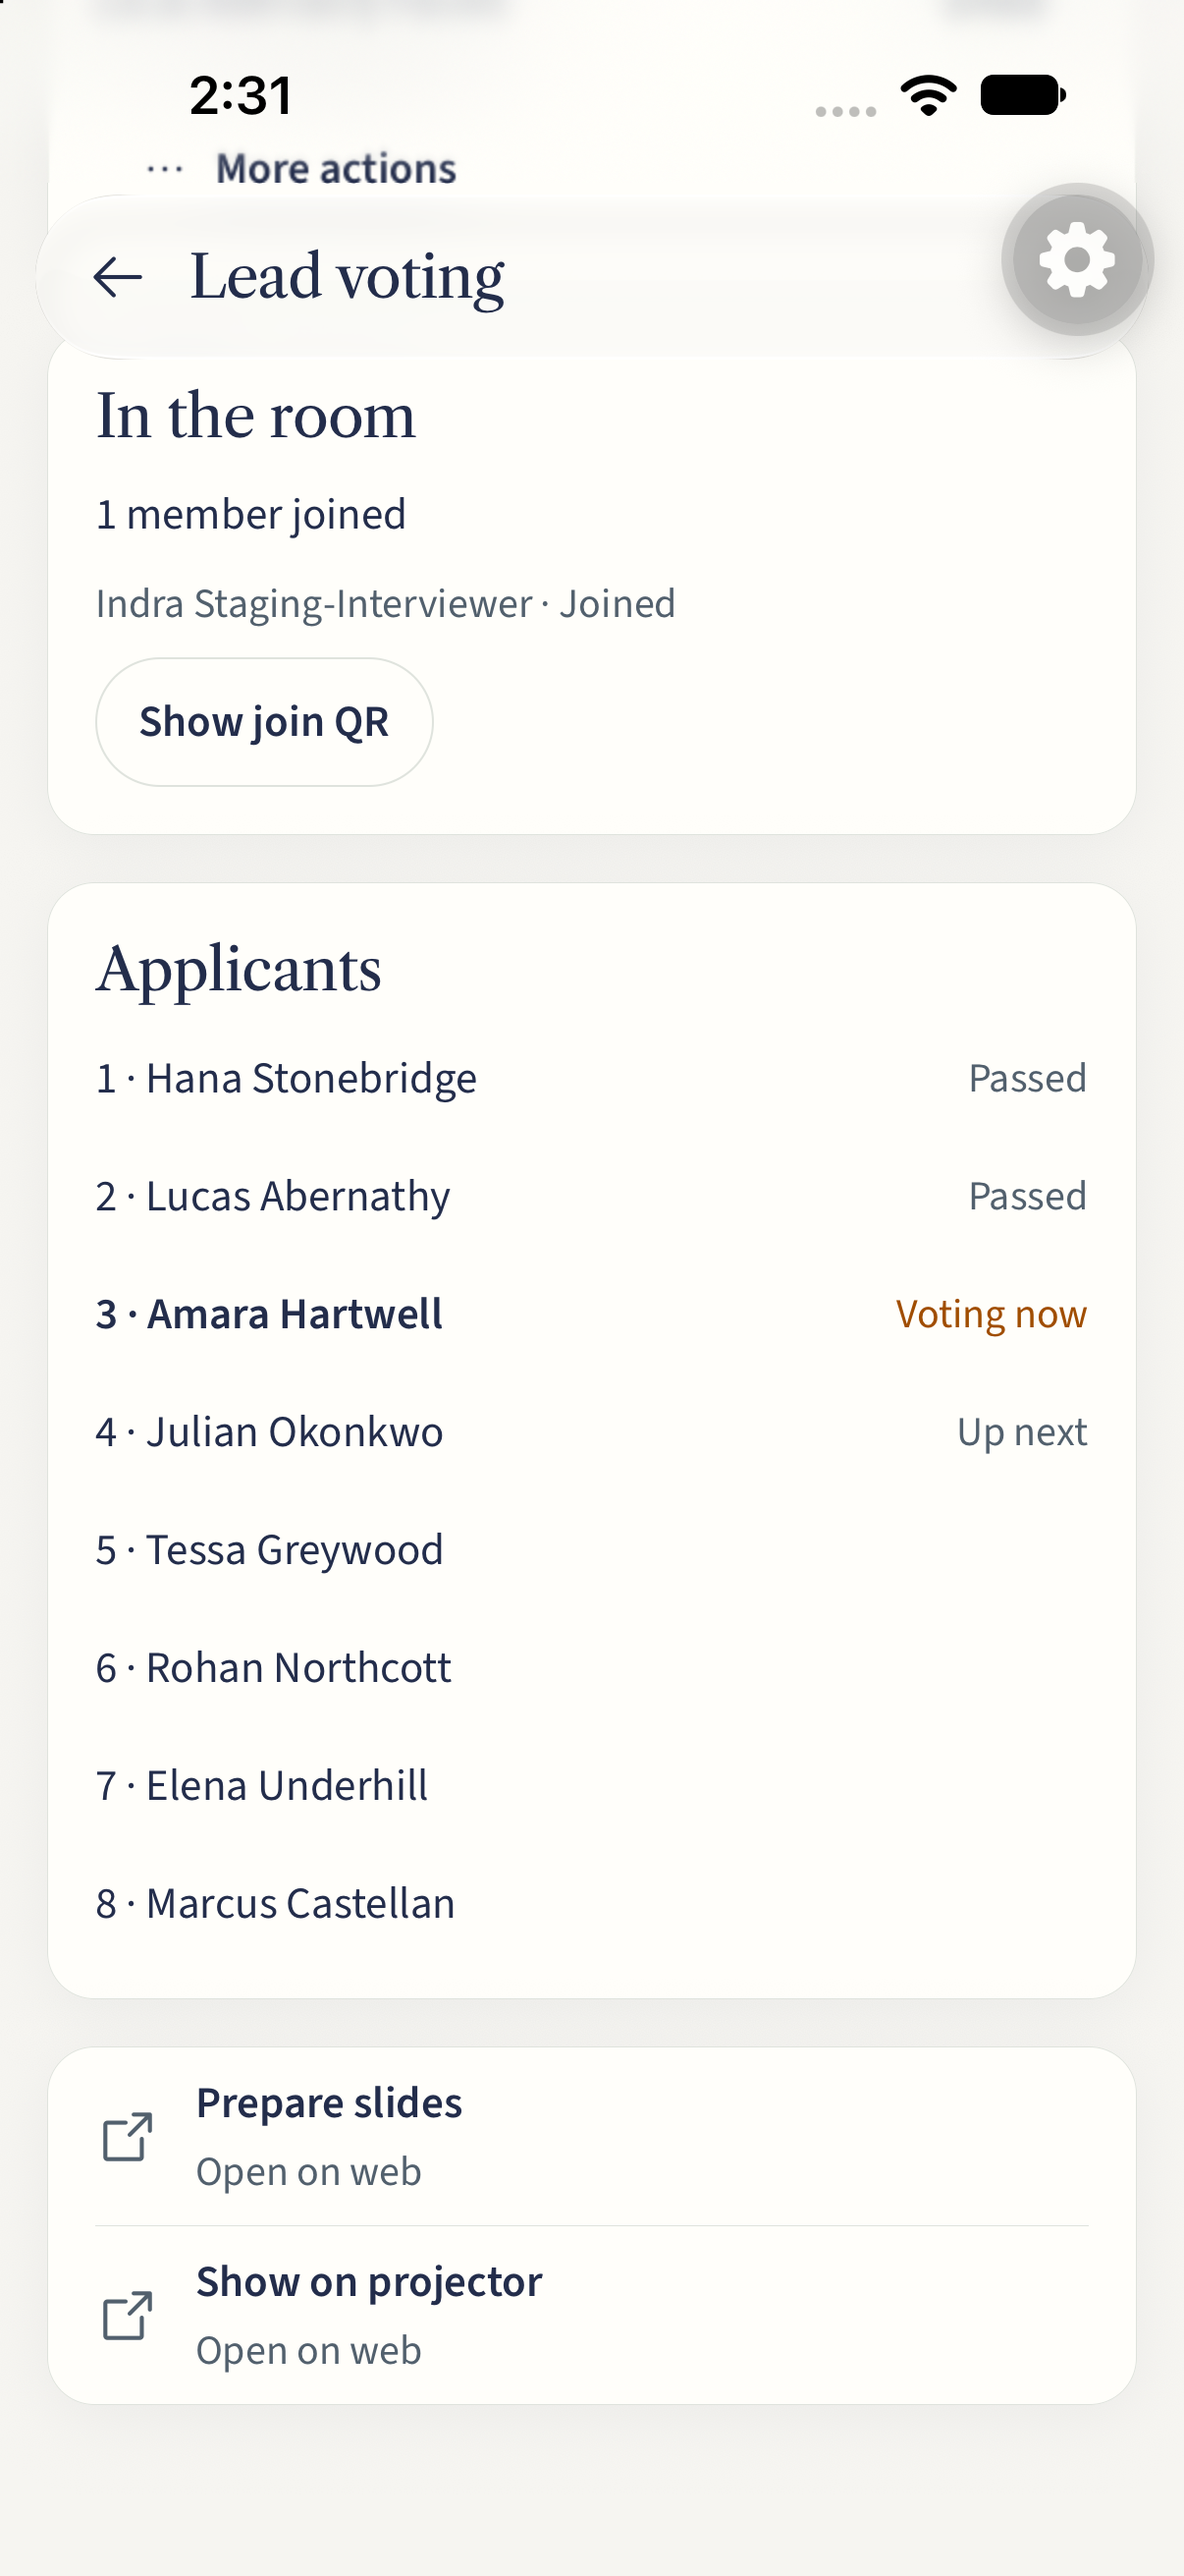
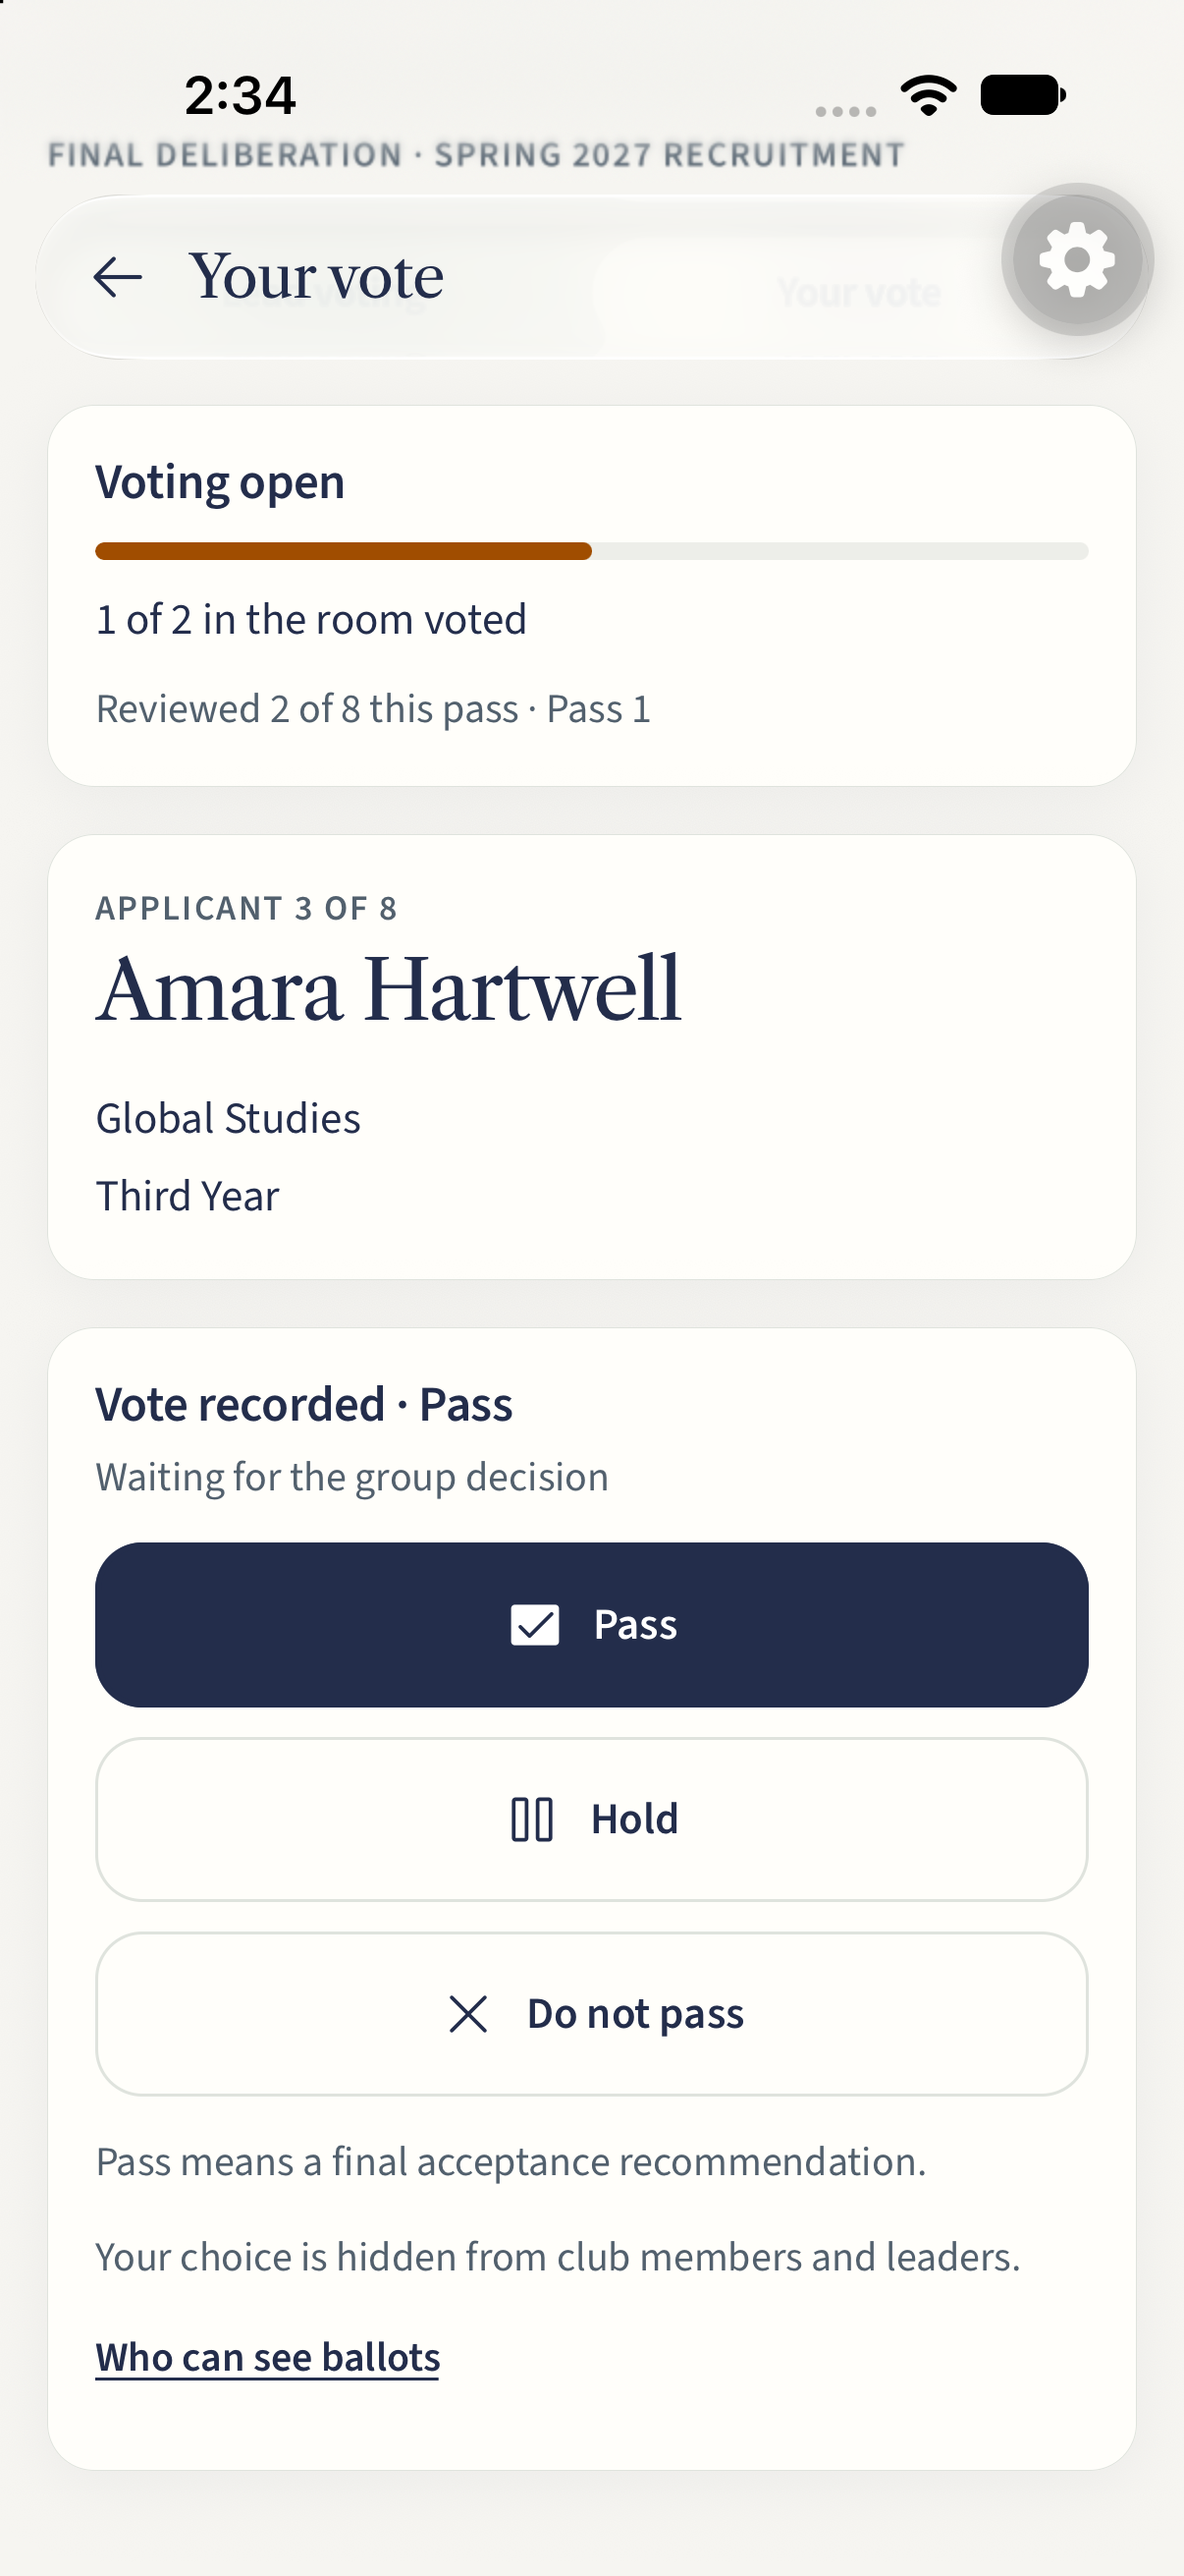
Authz review fixes: refuse browser-session cookies on the mobile API, tokenless public calls are signed out, media keeps per-address limits, deletion freshness from the bearer token

diff --git a/utils/mobile-api.ts b/utils/mobile-api.ts
@@ -51,6 +51,14 @@ const statusByCode: Record<string, number> = {
 };
 const refusalStatus = (code: string) => statusByCode[code] ?? 422;
 
+/** The native app never sends cookies. A request that carries a browser session (a Supabase auth cookie,
+ * Demo Mode or a support session) is a browser, and mixing its cookies with a bearer token could let one
+ * identity stand in for the other in code that reads cookies directly. Such requests are refused outright. */
+function carriesBrowserSession(cookieStore: Awaited<ReturnType<typeof cookies>>): boolean {
+  return cookieStore.get(DEMO_COOKIE)?.value === "1" || cookieStore.has(PLATFORM_VIEW_COOKIE)
+    || cookieStore.getAll().some(cookie => /^sb-.+-auth-token(?:\.\d+)?$/.test(cookie.name));
+}
+
 function bearerToken(request: Request): string | null {
   const match = /^Bearer ([A-Za-z0-9_-]+\.[A-Za-z0-9_-]+\.[A-Za-z0-9_-]+)$/.exec(request.headers.get("authorization") ?? "");
   return match ? match[1] : null;
@@ -74,11 +82,7 @@ export async function handleMobileRequest(request: Request, name: string, operat
   const found = Object.hasOwn(operations, name) ? operations[name] : undefined;
   if (!found) return refusal(404, "UNKNOWN_OPERATION", "This app version asked for something the server does not offer.");
   if (request.method !== found.method) return refusal(405, "METHOD_NOT_ALLOWED", "Method not allowed.", { Allow: found.method });
-  // The native app never sends cookies. A request that carries Demo Mode or a support session is a
-  // browser, and those modes keep their own isolated paths.
-  const cookieStore = await cookies();
-  if (cookieStore.get(DEMO_COOKIE)?.value === "1" || cookieStore.has(PLATFORM_VIEW_COOKIE))
-    return refusal(403, "UNSUPPORTED_SESSION", "The mobile API is unavailable in Demo Mode and support sessions.");
+  if (carriesBrowserSession(await cookies())) return refusal(403, "UNSUPPORTED_SESSION", "The mobile API is for the OutClass app. Use the website in a browser.");
   const token = bearerToken(request);
   if (!token && !found.public) return refusal(401, "UNAUTHENTICATED", "Sign in to continue.");
 
@@ -107,7 +111,8 @@ export async function handleMobileRequest(request: Request, name: string, operat
     }
     return success(result);
   };
-  return token ? runMobileRequest({ token, write: found.method === "POST" }, run) : run();
+  // Always inside the mobile context: without a token the request is signed out (public operations only).
+  return runMobileRequest({ token: token ?? "", write: found.method === "POST" }, run);
 }
 
 function success(data: unknown) {
@@ -148,9 +153,7 @@ export { ActionError };
  */
 export async function handleMobileMedia(request: Request, handler: ((request: NextRequest) => Promise<Response>) | undefined): Promise<Response> {
   if (!handler) return refusal(404, "UNKNOWN_OPERATION", "This app version asked for something the server does not offer.");
-  const cookieStore = await cookies();
-  if (cookieStore.get(DEMO_COOKIE)?.value === "1" || cookieStore.has(PLATFORM_VIEW_COOKIE))
-    return refusal(403, "UNSUPPORTED_SESSION", "The mobile API is unavailable in Demo Mode and support sessions.");
+  if (carriesBrowserSession(await cookies())) return refusal(403, "UNSUPPORTED_SESSION", "The mobile API is for the OutClass app. Use the website in a browser.");
   const token = bearerToken(request);
   if (!token) return refusal(401, "UNAUTHENTICATED", "Sign in to continue.");
   return runMobileRequest({ token, write: false }, async () => {
@@ -164,7 +167,10 @@ export async function handleMobileMedia(request: Request, handler: ((request: Ne
       if (!limit.ok) return refusal(429, "RATE_LIMITED", RATE_LIMIT_MESSAGE, rateLimitHeaders(limit.retryAfterSeconds));
       // The handler reads only the query string; the bearer token is not passed on.
       const url = new URL(request.url);
-      return await handler(new NextRequest(url, { method: "GET", headers: { accept: request.headers.get("accept") ?? "*/*" } }));
+      // The address keeps the handlers' own per-address limits per phone, and Range keeps resume paging working.
+      const forwarded: Record<string, string> = { accept: request.headers.get("accept") ?? "*/*" };
+      for (const name of ["x-forwarded-for", "range"]) { const value = request.headers.get(name); if (value) forwarded[name] = value; }
+      return await handler(new NextRequest(url, { method: "GET", headers: forwarded }));
     } catch (error) {
       return failure(error, "media");
     }

diff --git a/actions/check-in-pass.ts b/actions/check-in-pass.ts
@@ -44,6 +44,8 @@ const scanInput = z.object({ clubId: z.string().uuid(), meetingId: z.string().uu
 async function scanCheckInPassCommand(input: unknown): Promise<DoorScanResult> {
   const { clubId, meetingId, payload } = scanInput.parse(input);
   const { user: scanner } = await requireClubPermission(clubId, ["meetings.attendance"]);
+  // A support session reads; it never records attendance for the member it views as.
+  if ((await requireAuth()).impersonation) throw new ActionError("Door mode isn’t available in a support session.", "FORBIDDEN");
   const token = parseCheckInPass(payload);
   if (!token) throw new ActionError("That isn’t an OutClass check-in pass.", "NOT_A_PASS");
   return prisma.$transaction(async tx => {
@@ -57,7 +59,6 @@ async function scanCheckInPassCommand(input: unknown): Promise<DoorScanResult> {
     // The same attendance window as the room's code (issueMeetingCheckIn).
     if (now.getTime() < meeting.date.getTime() - 3600000 || now.getTime() > (meeting.endDate || meeting.date).getTime() + 6 * 3600000)
       throw new ActionError("Attendance opens one hour before the meeting and closes six hours after its end (or start if no end is set).", "CLOSED");
-    // The scanner's own authority is re-read inside the transaction, as the room's code re-reads its issuer's.
     const expired = () => new ActionError("This pass has expired. Ask them to open their pass again.", "PASS_EXPIRED");
     const pass = await tx.meetingCheckInPass.findUnique({ where: { tokenHash: hash(token) } });
     if (!pass) throw expired();

diff --git a/actions/account-deletion.ts b/actions/account-deletion.ts
@@ -1,4 +1,5 @@
 "use server"
+import { mobileRequest } from "@/utils/mobile-request"
 import { createHash } from "node:crypto"
 import { cookies, headers } from "next/headers"
 import { revalidatePath } from "next/cache"
@@ -117,8 +118,11 @@ async function verifyFreshAuthentication(user: { id: string; email: string }, pa
     return "password"
   }
   const client = await createClient(await cookies())
-  const { data, error } = await client.auth.getClaims()
-  if (error || !freshAuthentication(data?.claims?.amr)) throw new ActionError("For your security, sign out and sign back in, then delete your account within 10 minutes.")
+  // The native app has no cookie session: its freshness is read from the same verified bearer token that
+  // identifies it (utils/mobile-request.ts), and must belong to this account.
+  const mobile = mobileRequest()
+  const { data, error } = mobile ? await client.auth.getClaims(mobile.token) : await client.auth.getClaims()
+  if (error || (mobile && data?.claims?.sub !== user.id) || !freshAuthentication(data?.claims?.amr)) throw new ActionError("For your security, sign out and sign back in, then delete your account within 10 minutes.")
   return "recent-sign-in"
 }
 

diff --git a/mobile/src/components/voting/host-controls.tsx b/mobile/src/components/voting/host-controls.tsx
@@ -159,8 +159,8 @@ export function HostControls({ room, entry, labels, next, refresh, confirm }: { 
 
       {room.status === "OPEN" ? (
         <View style={{ flexDirection: "row", gap: 10 }}>
-          <View style={{ flex: 1 }}>
-            <Button full testID="voting-previous" variant="secondary" label="Previous" accessibilityHint={saved ? `Undo ${label(saved.applicationId)} ${savedOutcomeLabels[saved.choice]}` : undefined} disabled={locked || !saved || !room.permissions.canCorrect} onPress={undo} />
+          <View>
+            <Button testID="voting-previous" variant="secondary" label="Previous" accessibilityHint={saved ? `Undo ${label(saved.applicationId)} ${savedOutcomeLabels[saved.choice]}` : undefined} disabled={locked || !saved || !room.permissions.canCorrect} onPress={undo} />
           </View>
           <View style={{ flex: 1 }}>
             <Button full testID="voting-next" variant="secondary" label={next ? `Next: ${next}` : "Next"} disabled={locked || ballotState !== "CONFIRMED"} onPress={() => { void send("ADVANCE", scope); }} />

diff --git a/utils/auth.ts b/utils/auth.ts
@@ -48,6 +48,8 @@ export const getSessionState = cache(async () => {
   // Its bearer token gets the same verification as a cookie session; cookies are not consulted.
   const mobile = mobileRequest();
   if (mobile) {
+    // A public operation called without a token is signed out; a cookie never stands in for the bearer.
+    if (!mobile.token) return { identity: { data: { user: null }, error: null }, secondFactorPending: false, pendingUser: undefined };
     mobile.session ??= verifiedSessionState(createAdminClient(process.env.NEXT_PUBLIC_SUPABASE_URL || "https://placeholder.supabase.co",
       process.env.NEXT_PUBLIC_SUPABASE_PUBLISHABLE_KEY || "placeholder", { auth: { persistSession: false, autoRefreshToken: false, detectSessionInUrl: false } }), mobile.token);
     return mobile.session as Promise<SessionState>;

diff --git a/utils/mobile-request.ts b/utils/mobile-request.ts
@@ -11,7 +11,8 @@ import { AsyncLocalStorage } from "node:async_hooks";
  * this path, so a browser request cannot opt in to it.
  */
 export type MobileRequestContext = {
-  /** The Supabase access token from `Authorization: Bearer`. Unverified until getSessionState runs. */
+  /** The Supabase access token from `Authorization: Bearer`. Unverified until getSessionState runs.
+   * Empty for a public operation called without a token: that request is signed out, whatever cookies it carries. */
   readonly token: string;
   /** A state-changing request: gets the same maintenance-mode refusal as a Server Action. */
   readonly write: boolean;
